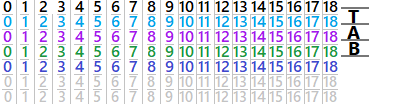
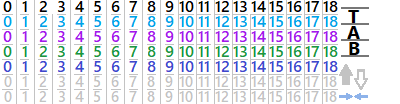
스트로크 방향을 표시하도록 추가. ( & 다중캔버스 표시를위한 준비)

Changed region(s): [[0.84, 0.6058, 0.93, 0.8654], [0.84, 0.8942, 0.93, 0.9519]]

diff --git a/script/tab_drawing.js b/script/tab_drawing.js
@@ -21,17 +21,17 @@ var drawing_start = 0;      // 캔버스에 그려질 TAB 악보의 시작점. -
 
 var draw_start_x = 40;
 var chord_icon_y = 48;
-var stroke_icon_y = 60;
+var stroke_icon_y = 136;
 var tab_line_A_y = 80;
 var tab_line_E_y = 96;
 var tab_line_C_y = 112;
 var tab_line_G_y = 128;
-var lyric_text_y = 160;
+var lyric_text_y = 164;
 var note_space = 36;
 var note_icon;          // 운지 위치 (flet)을 표시하는 숫자들
 var total_chord_table;  // 코드 테이블을 모아 둔 비트맵
 
-var song_data = null;    // 우쿨렐레 TAB 악보를 저장할 JSON 객체. 
+var song_data = null;   // 우쿨렐레 TAB 악보를 저장할 JSON 객체. 
 
 window.onload = function main() {
 
@@ -137,16 +137,18 @@ var draw_tab_lines = function(ctx) {
 }
 
 var draw_notes = function(ctx, data) {
-  console.log("song_data.length = "+ data.notes.length );
+  console.log("song_data. start_index = "+ note_drew + " / " + data.notes.length );
   var xpos;
-  for (var i=0; i<data.notes.length; i++) {
+  var count = 0;
+  for (var i=note_drew; i<data.notes.length; i++) {
     // console.log("index="+i+", chord="+data.notes[i].chord + ": " + data.notes[i].tab );
     xpos = draw_start_x+ (data.notes[i].timestamp/624) *note_space;
     if (xpos >= canvas_width)
       break;
     draw_a_note(ctx, data.notes[i], xpos );
+    count++;
   }
-
+  return count;
 }
 
 var draw_a_note = function(ctx, data, xpos) {
@@ -187,9 +189,19 @@ var draw_a_note = function(ctx, data, xpos) {
     console.log("chord: ["+data.chord+"] ==> index: " + chord_index );
     ctx.drawImage(total_chord_table, (chord_index%14)*50, parseInt(chord_index/14)*54, 49,53,  xpos, 10,  49, 53);
   }
-  // if (data.stroke) {         // 스트로크를 표시
-  //   ctx.fillText( data.chord, xpos, stroke_icon_y );
-  // }
+  if (data.stroke) {         // 스트로크를 표시
+    // ctx.fillRect(xpos,stroke_icon_y,14,26);
+    if ( data.stroke.indexOf('D') >= 0 ) {
+      ctx.drawImage(note_icon, 339, 64, 14,26,  xpos, stroke_icon_y,  14,26);
+    } else if ( data.stroke.indexOf('U') >= 0 ) {
+      ctx.drawImage(note_icon, 354, 64, 14,26,  xpos, stroke_icon_y,  14,26);
+    } 
+    if ( data.stroke.indexOf('H') >= 0 ) {
+      ctx.drawImage(note_icon, 339, 92, 14,8,  xpos+8, stroke_icon_y+8,  14,8);
+    } else if ( data.stroke.indexOf('P') >= 0 ) {
+      ctx.drawImage(note_icon, 354, 92, 14,8,  xpos+8, stroke_icon_y+8,  14,8);
+    }
+  }
 
 
   if (g != undefined ) {
@@ -217,23 +229,42 @@ var draw_a_note = function(ctx, data, xpos) {
 }
 
 
+var note_drew = 0;
+
 function draw_tabulature() {
-  var cnvs = document.getElementsByClassName("tabulature");
-  canvas_width = cnvs[0].width;
-  canvas_height = cnvs[0].height;
-  var ctx = cnvs[0].getContext("2d");
-  ctx.textBaseline = 'top';
-  ctx.font = '18px NotoSansCJKKR';
-  ctx.fillStyle = 'white';
-  ctx.clearRect(0, 0, canvas_width, canvas_height);
-  ctx.fillStyle = 'black';
+  var cnvs_group = document.getElementById("tab_canvas");
 
-  if (song_data == null )
-    return;
-  console.log("song_data="+song_data.title );
-  calculate_note_space(song_data);
+  var cnvs = cnvs_group.getElementsByClassName("tabulature");
+  // 우선 기존에 붙어 있던 canvas 들이 있으면 몽땅 다 제거 해 놓고..
+  for (var i=0; cnvs.length > 0; i++) {
+    // console.log("removing..."+cnvs[0]+", remain:"+cnvs.length );
+    cnvs[0].remove();
+  }
 
-  draw_tab_lines(ctx);
-  draw_notes(ctx, song_data);
+  // note_drew = 0;
+  // while( note_drew < song_data.length ) {
+    // 새로운 캔버스를 만들어 추가한다.
+    cnvs = document.createElement("canvas");
+    cnvs.classList.add("tabulature");
+    cnvs.width = canvas_width;
+    cnvs.height = canvas_height = 200;
+    cnvs_group.appendChild(cnvs);
+    var ctx = cnvs.getContext("2d");
+    ctx.textBaseline = 'top';
+    ctx.font = '18px NotoSansCJKKR';
+    ctx.fillStyle = 'white';
+    ctx.clearRect(0, 0, canvas_width, canvas_height);
+    ctx.fillStyle = 'black';
+
+    if (song_data == null )
+      return;
+    console.log("song_data="+song_data.title );
+    calculate_note_space(song_data);
+
+    draw_tab_lines(ctx);
+    note_drew += draw_notes(ctx, song_data);
+  // }
+
+
 }
 

diff --git a/tab_drawing.html b/tab_drawing.html
@@ -33,8 +33,10 @@
     <div id="song_title">제목: </div>
     <div id="song_category">분류: </div>
     
-    <canvas class="tabulature" >캔버스기능이 필요함</canvas>
-    
+    <div id="tab_canvas">
+      <canvas class="tabulature" >캔버스기능이 필요함</canvas>
+    </div>
+
     <script src="./script/tab_drawing.js" type="text/javascript" charset="utf-8"/> </script>
 
     <img id="uke_note" style="display:none" src="./common/uke_note.png"/>
